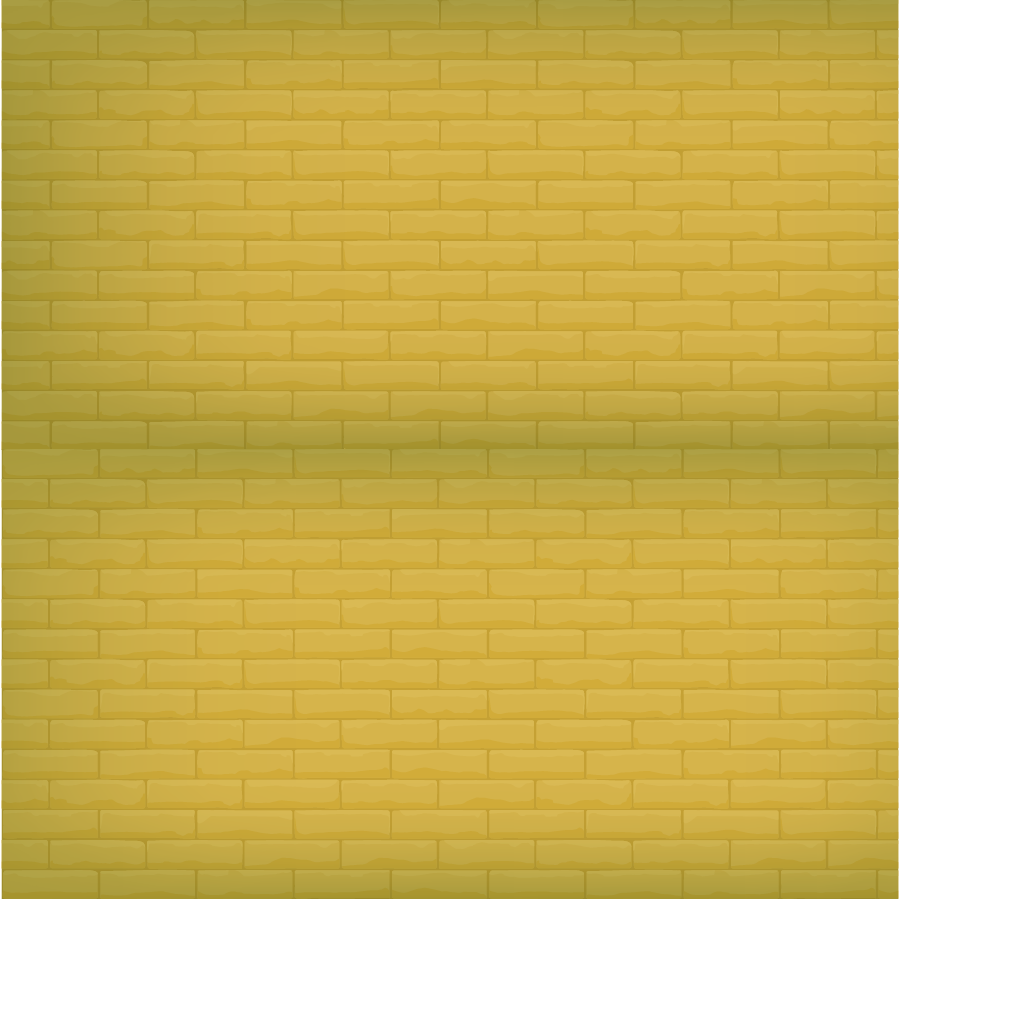
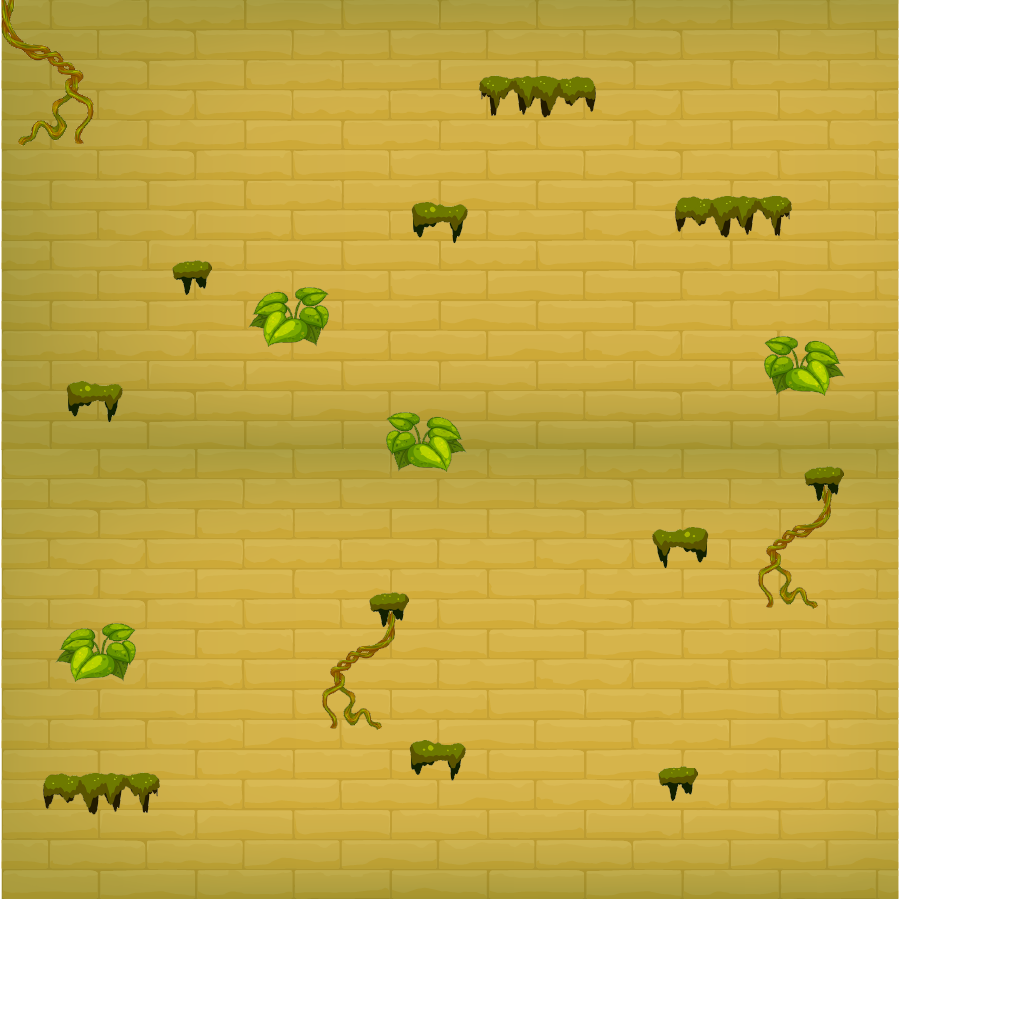
Se implemento las colisiones con las particulas, se implemento el menu de pausa, se cambio el background

diff --git a/public_html/src/Game/Game.js b/public_html/src/Game/Game.js
@@ -134,6 +134,15 @@ function Game() {
         water_character_wave_walking: "assets/sounds/water_character_wave_walking.mp3"
     };
 
+    this.kMenuPause = {
+        menu_pause_activate_sound: "assets/menu_pause/menu_pause_activate_sound/menu_pause_activate_sound.png",
+        menu_pause_activate_sound_finish_game: "assets/menu_pause/menu_pause_activate_sound/menu_pause_activate_sound_finish_game.png",
+        menu_pause_activate_sound_resume: "assets/menu_pause/menu_pause_activate_sound/menu_pause_activate_sound_resume.png",
+        menu_pause_desactivate_sound: "assets/menu_pause/menu_pause_desactivate_sound/menu_pause_desactivate_sound.png",
+        menu_pause_desactivate_sound_finish_game: "assets/menu_pause/menu_pause_desactivate_sound/menu_pause_desactivate_sound_finish_game.png",
+        menu_pause_desactivate_sound_resume: "assets/menu_pause/menu_pause_desactivate_sound/menu_pause_desactivate_sound_resume.png",
+    };
+
     this.mAllCameras = null;
     this.mGlobalLightSet = null;
     this.mAllWalls = null;
@@ -142,12 +151,20 @@ function Game() {
     this.mAllDoors = null;
     this.mAllPushButtons = null;
     this.mAllCharacters = null;
-    this.mWin = [false, true];
     this.mMsg = null;
     this.mIsVisibleMap = false;
+    this.mIsVisibleMenuPause = false;
     this.parser = null;
     this.mAllParticles = new ParticleGameObjectSet();
     this.cont = 0;
+
+    this.pause = false;
+
+    this.mMenuPause = null;
+
+    this.loadSelection = null;
+
+    this.prefixMenuPause = "";
 
 }
 gEngine.Core.inheritPrototype(Game, Scene);
@@ -179,6 +196,14 @@ Game.prototype.loadScene = function () {
         }
     }
 
+    for (const key in this.kMenuPause) {
+        if (this.kMenuPause[key] !== "") {
+            gEngine.Textures.loadTexture(this.kMenuPause[key]);
+        } else {
+            this.kMenuPause[key] = null;
+        }
+    }
+
 };
 
 Game.prototype.unloadScene = function () {
@@ -186,6 +211,7 @@ Game.prototype.unloadScene = function () {
     gEngine.TextFileLoader.unloadTextFile(this.kFileLevel);
 
     gEngine.AudioClips.stopBackgroundAudio();
+    
     for (const key in this.kTextures) {
         if (this.kTextures[key] !== null) {
             gEngine.Textures.unloadTexture(this.kTextures[key]);
@@ -206,15 +232,16 @@ Game.prototype.unloadScene = function () {
         }
     }
 
-    let menu = null;
-
-    if (this.mWin[0] && this.mWin[1]) {
-        menu = new WinMenu();
-    } else {
-        menu = new GameOverMenu();
+    for (const key in this.kMenuPause) {
+        if (this.kMenuPause[key] !== "") {
+            gEngine.Textures.unloadTexture(this.kMenuPause[key]);
+        } else {
+            this.kMenuPause[key] = null;
+        }
     }
 
-    if (menu !== null) gEngine.Core.startScene(menu);
+
+    if (this.loadSelection !== null) gEngine.Core.startScene(this.loadSelection);
 };
 
 Game.prototype.initialize = function () {
@@ -252,6 +279,7 @@ Game.prototype.initialize = function () {
     //Characters
     this.mAllCharacters = this.parser.parseCharacters(this.kTextures, this.kNormals, this.mGlobalLightSet, this.kSounds);
 
+
     //Weves
     this.mAllWaves = this.parser.parseWaves(this.kTextures, this.kNormals, this.mGlobalLightSet);
 
@@ -262,7 +290,13 @@ Game.prototype.initialize = function () {
 
     gEngine.LayerManager.addToLayer(gEngine.eLayer.eHUD, this.mMsg);
 
-    gEngine.AudioClips.playBackgroundAudio(this.kSounds["background"]);    
+    gEngine.AudioClips.playBackgroundAudio(this.kSounds["background"]);
+
+    this.mMenuPause = new LightRenderable(this.kMenuPause["menu_pause_activate_sound"]);  
+    this.mMenuPause.addLight(this.mGlobalLightSet.getLightAt(0));
+    this.mMenuPause.getXform().setSize(90, 90);
+    this.mMenuPause.getXform().setPosition(0, 0);
+
 };
 
 // This is the draw function, make sure to setup proper drawing environment, and more
@@ -272,45 +306,124 @@ Game.prototype.draw = function () {
 
     this.mAllCameras[0].setupViewProjection();
     gEngine.LayerManager.drawAllLayers(this.mAllCameras[0]);
+    this.mAllParticles.draw(this.mAllCameras[0]);
 
     if (this.mIsVisibleMap) {
         this.mAllCameras[1].setupViewProjection();
 
         for (let i = 0; i < 4; i++) {
             gEngine.LayerManager.drawLayer(i, this.mAllCameras[1]);
+      
+        }
+        this.mAllParticles.draw(this.mAllCameras[1]);
+    }
+
+    if (this.mIsVisibleMenuPause) {
+        this.mAllCameras[2].setupViewProjection(); 
+        this.mMenuPause.draw(this.mAllCameras[2]);     
+        this.menuPause();        
+    }
+    
+};
+
+Game.prototype.menuPause = function () {    
+    let x =  gEngine.Input.getMousePosX();
+    let y =  gEngine.Input.getMousePosY();
+    
+    if (y >= 298 && y <= 316) {
+        if (x >= 462 && x <= 486) {           
+            if (gEngine.Input.isButtonClicked(gEngine.Input.mouseButton.Left)) {
+                this.prefixMenuPause = "des";
+                this.mMenuPause.setTexture(this.kMenuPause["menu_pause_"+ this.prefixMenuPause + "activate_sound"]);
+                gEngine.AudioClips.stopBackgroundAudio(this.kSounds["background"]);  
+            }
         }
     }
-    this.mAllParticles.draw(this.mAllCameras[0]);
-};
+ 
+    if (y >= 298 && y <= 316) {
+        if (x >= 480 && x <= 504) {           
+            if (gEngine.Input.isButtonClicked(gEngine.Input.mouseButton.Left)) {
+                this.prefixMenuPause = "";
+                this.mMenuPause.setTexture(this.kMenuPause["menu_pause_"+ this.prefixMenuPause + "activate_sound"]);
+                gEngine.AudioClips.playBackgroundAudio(this.kSounds["background"]);  
+            }
+        }
+    }
+
+    if (y >= 208 && y <= 256) {
+        if (x >= 358 && x <= 528) {          
+            this.mMenuPause.setTexture(this.kMenuPause["menu_pause_"+ this.prefixMenuPause + "activate_sound_resume"]);
+            if (gEngine.Input.isButtonClicked(gEngine.Input.mouseButton.Left)) {
+                this.mIsVisibleMenuPause = false;
+                this.pause = false;
+                this.mMenuPause.setTexture(this.kMenuPause["menu_pause_"+ this.prefixMenuPause + "activate_sound"]);
+            }
+        }
+    }else{
+        this.mMenuPause.setTexture(this.kMenuPause["menu_pause_"+ this.prefixMenuPause + "activate_sound"]);
+    }
+
+    if(y >= 386 && y <= 425){
+        if(x >= 580 && x <= 642){
+            if (gEngine.Input.isButtonClicked(gEngine.Input.mouseButton.Left)) {
+            this.mIsVisibleMenuPause = false;
+            this.pause = false;
+            this.mMenuPause.setTexture(this.kMenuPause["menu_pause_"+ this.prefixMenuPause + "activate_sound"]);
+            }
+        }
+    }
+
+    if (y >= 130 && y <= 183) {
+        if (x >= 368 && x <= 519) {           
+            this.mMenuPause.setTexture(this.kMenuPause["menu_pause_"+ this.prefixMenuPause + "activate_sound_finish_game"]);
+            if (gEngine.Input.isButtonClicked(gEngine.Input.mouseButton.Left)) {
+                this.loadSelection = new MainMenu();
+                gEngine.GameLoop.stop();        
+            }
+        }
+    }
+
+    
+
+}
 
 // The Update function, updates the application state. Make sure to _NOT_ draw
 // anything from this function!
 Game.prototype.update = function () {
-    this.mAllCameras[0].update();
-    gEngine.LayerManager.updateAllLayers();
-
-    this.mAllParticles.update();
-
-    //Variables de objetos
-    let mWaterCharacter = this.mAllCharacters.getObjectAt(0);
-    let mFireCharacter = this.mAllCharacters.getObjectAt(1);
-
-    this.camera(mWaterCharacter, mFireCharacter);
-    this.auroraCharacter(mWaterCharacter, 1);
-    this.timeParticles();
-    this.auroraCharacter(mFireCharacter, 2);
-    this.colCharacterWave(mWaterCharacter, mFireCharacter);
-
-    this.colCharacterWaveWalking(mWaterCharacter, mFireCharacter);
     
-    this.colCharacterDiamond(mWaterCharacter, mFireCharacter);
-    this.colCharacterPushButton(mWaterCharacter, mFireCharacter);
-    this.colCharacterDoor(mWaterCharacter, mFireCharacter);
-    this.colCharacterParticle(mWaterCharacter, mFireCharacter);
-    this.physicsSimulation();
-    this.miniMapa();
-    this.msjScore(mWaterCharacter, mFireCharacter);
+    if (gEngine.Input.isKeyClicked(gEngine.Input.keys.P)) {
+        this.mIsVisibleMenuPause = true;
+        this.pause = true;
+    }
+  
+    this.mAllCameras[2].update();
+
+    if (!this.pause) {
+        this.mAllCameras[0].update();
+        gEngine.LayerManager.updateAllLayers();
+
+        this.mAllParticles.update();
+
+        //Variables de objetos
+        let mWaterCharacter = this.mAllCharacters.getObjectAt(0);
+        let mFireCharacter = this.mAllCharacters.getObjectAt(1);
+
+        this.camera(mWaterCharacter, mFireCharacter);
+        this.auroraCharacter(mWaterCharacter, 1);
+        this.timeParticles();
+        this.auroraCharacter(mFireCharacter, 2);
+        this.colCharacterWave(mWaterCharacter, mFireCharacter);
+        this.colCharacterDiamond(mWaterCharacter, mFireCharacter);
+        this.colCharacterPushButton(mWaterCharacter, mFireCharacter);
+        this.colCharacterDoor(mWaterCharacter, mFireCharacter);
+        this.colCharacterParticle(mWaterCharacter.getXform(), mFireCharacter.getXform());
+        this.physicsSimulation();
+        this.miniMapa();
+        this.msjScore(mWaterCharacter, mFireCharacter);
+    }
+
 };
+
 
 //Mover la camara
 Game.prototype.camera = function (mWaterCharacter, mFireCharacter) {
@@ -415,19 +528,10 @@ Game.prototype.colCharacterWave = function (mWaterCharacter, mFireCharacter) {
             gEngine.AudioClips.playACue(this.kSounds["finish"]);
             this.mGlobalLightSet.getLightAt(1).setLightTo(false);
             character.setVisibility(false);
+
+            this.loadSelection = new GameOverMenu();
             gEngine.GameLoop.stop();
         }
-    }
-};
-
-//Función que detecta que personaje camina sobre su wave y reproduce el camino (en producción)
-Game.prototype.colCharacterWaveWalking = function (mWaterCharacter, mFireCharacter) {
-    for (let i = 0; i < this.mAllWaves.size(); i++) {
-        let wave = this.mAllWaves.getObjectAt(i);
-        let characterWalking = (wave.getPlayerCollision() === 0) ? mFireCharacter : mWaterCharacter;
-        let colWalking = (characterWalking !== null) ? characterWalking.getPhysicsComponent().collided(wave.getPhysicsComponent(), new CollisionInfo()) : false;
-
-     
     }
 };
 
@@ -444,7 +548,7 @@ Game.prototype.colCharacterDiamond = function (mWaterCharacter, mFireCharacter) 
             diamond.setVisibility(false);
             character.incrementScore();
             this.mAllDiamons.removeFromSet(diamond);
-        }        
+        }
     }
 };
 
@@ -474,8 +578,8 @@ Game.prototype.colCharacterDoor = function (mWaterCharacter, mFireCharacter) {
     }
 
     if (mWaterCharacter.getInDoor() && mFireCharacter.getInDoor()) {
-        
-        this.gameover();
+        this.loadSelection = new WinMenu();
+        gEngine.GameLoop.stop();
         gEngine.AudioClips.playACue(this.kSounds["ending"]);
     }
 };
@@ -548,18 +652,25 @@ Game.prototype.loadParticles = function () {
 
 //Colisión entre personajes y sustancia tóxica.
 Game.prototype.colCharacterParticle = function (mWaterCharacter, mFireCharacter) {
+    var bboxWater = new BoundingBox(mWaterCharacter.getPosition(), mWaterCharacter.getWidth(), mWaterCharacter.getHeight());
+    var bboxFire = new BoundingBox(mFireCharacter.getPosition(), mFireCharacter.getWidth(), mFireCharacter.getHeight());
     for (let i = 0; i < this.mAllParticles.size(); i++) {
-        let particle = this.mAllParticles.getObjectAt(i);
+        let particle = this.mAllParticles.getObjectAt(i).getXform();        
+        var particleBound = new BoundingBox(particle.getPosition(), particle.getWidth(), particle.getHeight());
+        var colWater = particleBound.boundCollideStatus(bboxWater);
+        var colFire = particleBound.boundCollideStatus(bboxFire);
 
+        if((colFire !=0) || (colWater != 0)){
+            gEngine.AudioClips.playACue(this.kSounds["death"]);
+            gEngine.AudioClips.playACue(this.kSounds["finish"]);
+            this.loadSelection = new GameOverMenu();
+            gEngine.GameLoop.stop();
+        }
     }
+
+
 }
 
-//Functión que para el juego.
-Game.prototype.gameover = function () {
-    this.mWin[0] = true;
-    gEngine.GameLoop.stop();
-
-};
 
 
 

diff --git a/public_html/src/Engine/Particles/ParticleGameObject.js b/public_html/src/Engine/Particles/ParticleGameObject.js
@@ -26,7 +26,7 @@ function ParticleGameObject(texture, atX, atY, cyclesToLive) {
     GameObject.call(this, renderableObj);
     
     var p = new Particle(xf.getPosition());
-    this.setPhysicsComponent(p); 
+    this.setPhysicsComponent(p);  
     
     this.mDeltaColor = [0, 0, 0, 0];
     this.mSizeDelta = 0;
@@ -51,7 +51,7 @@ ParticleGameObject.prototype.setFinalColor = function(f) {
  * Set the size delta of the particle
  * @param {Number} d Sife of particle
  * @returns {void}
- * @memberOf ParticleGameObject
+ * @memberOf ParticleGameObject 
  */
 ParticleGameObject.prototype.setSizeDelta = function(d) {
     this.mSizeDelta = d;

diff --git a/public_html/src/Game/Util/SceneFileParser.js b/public_html/src/Game/Util/SceneFileParser.js
@@ -347,4 +347,3 @@ SceneFileParser.prototype.parseParticle = function (textures) {
     }
     return p;
 };
-
